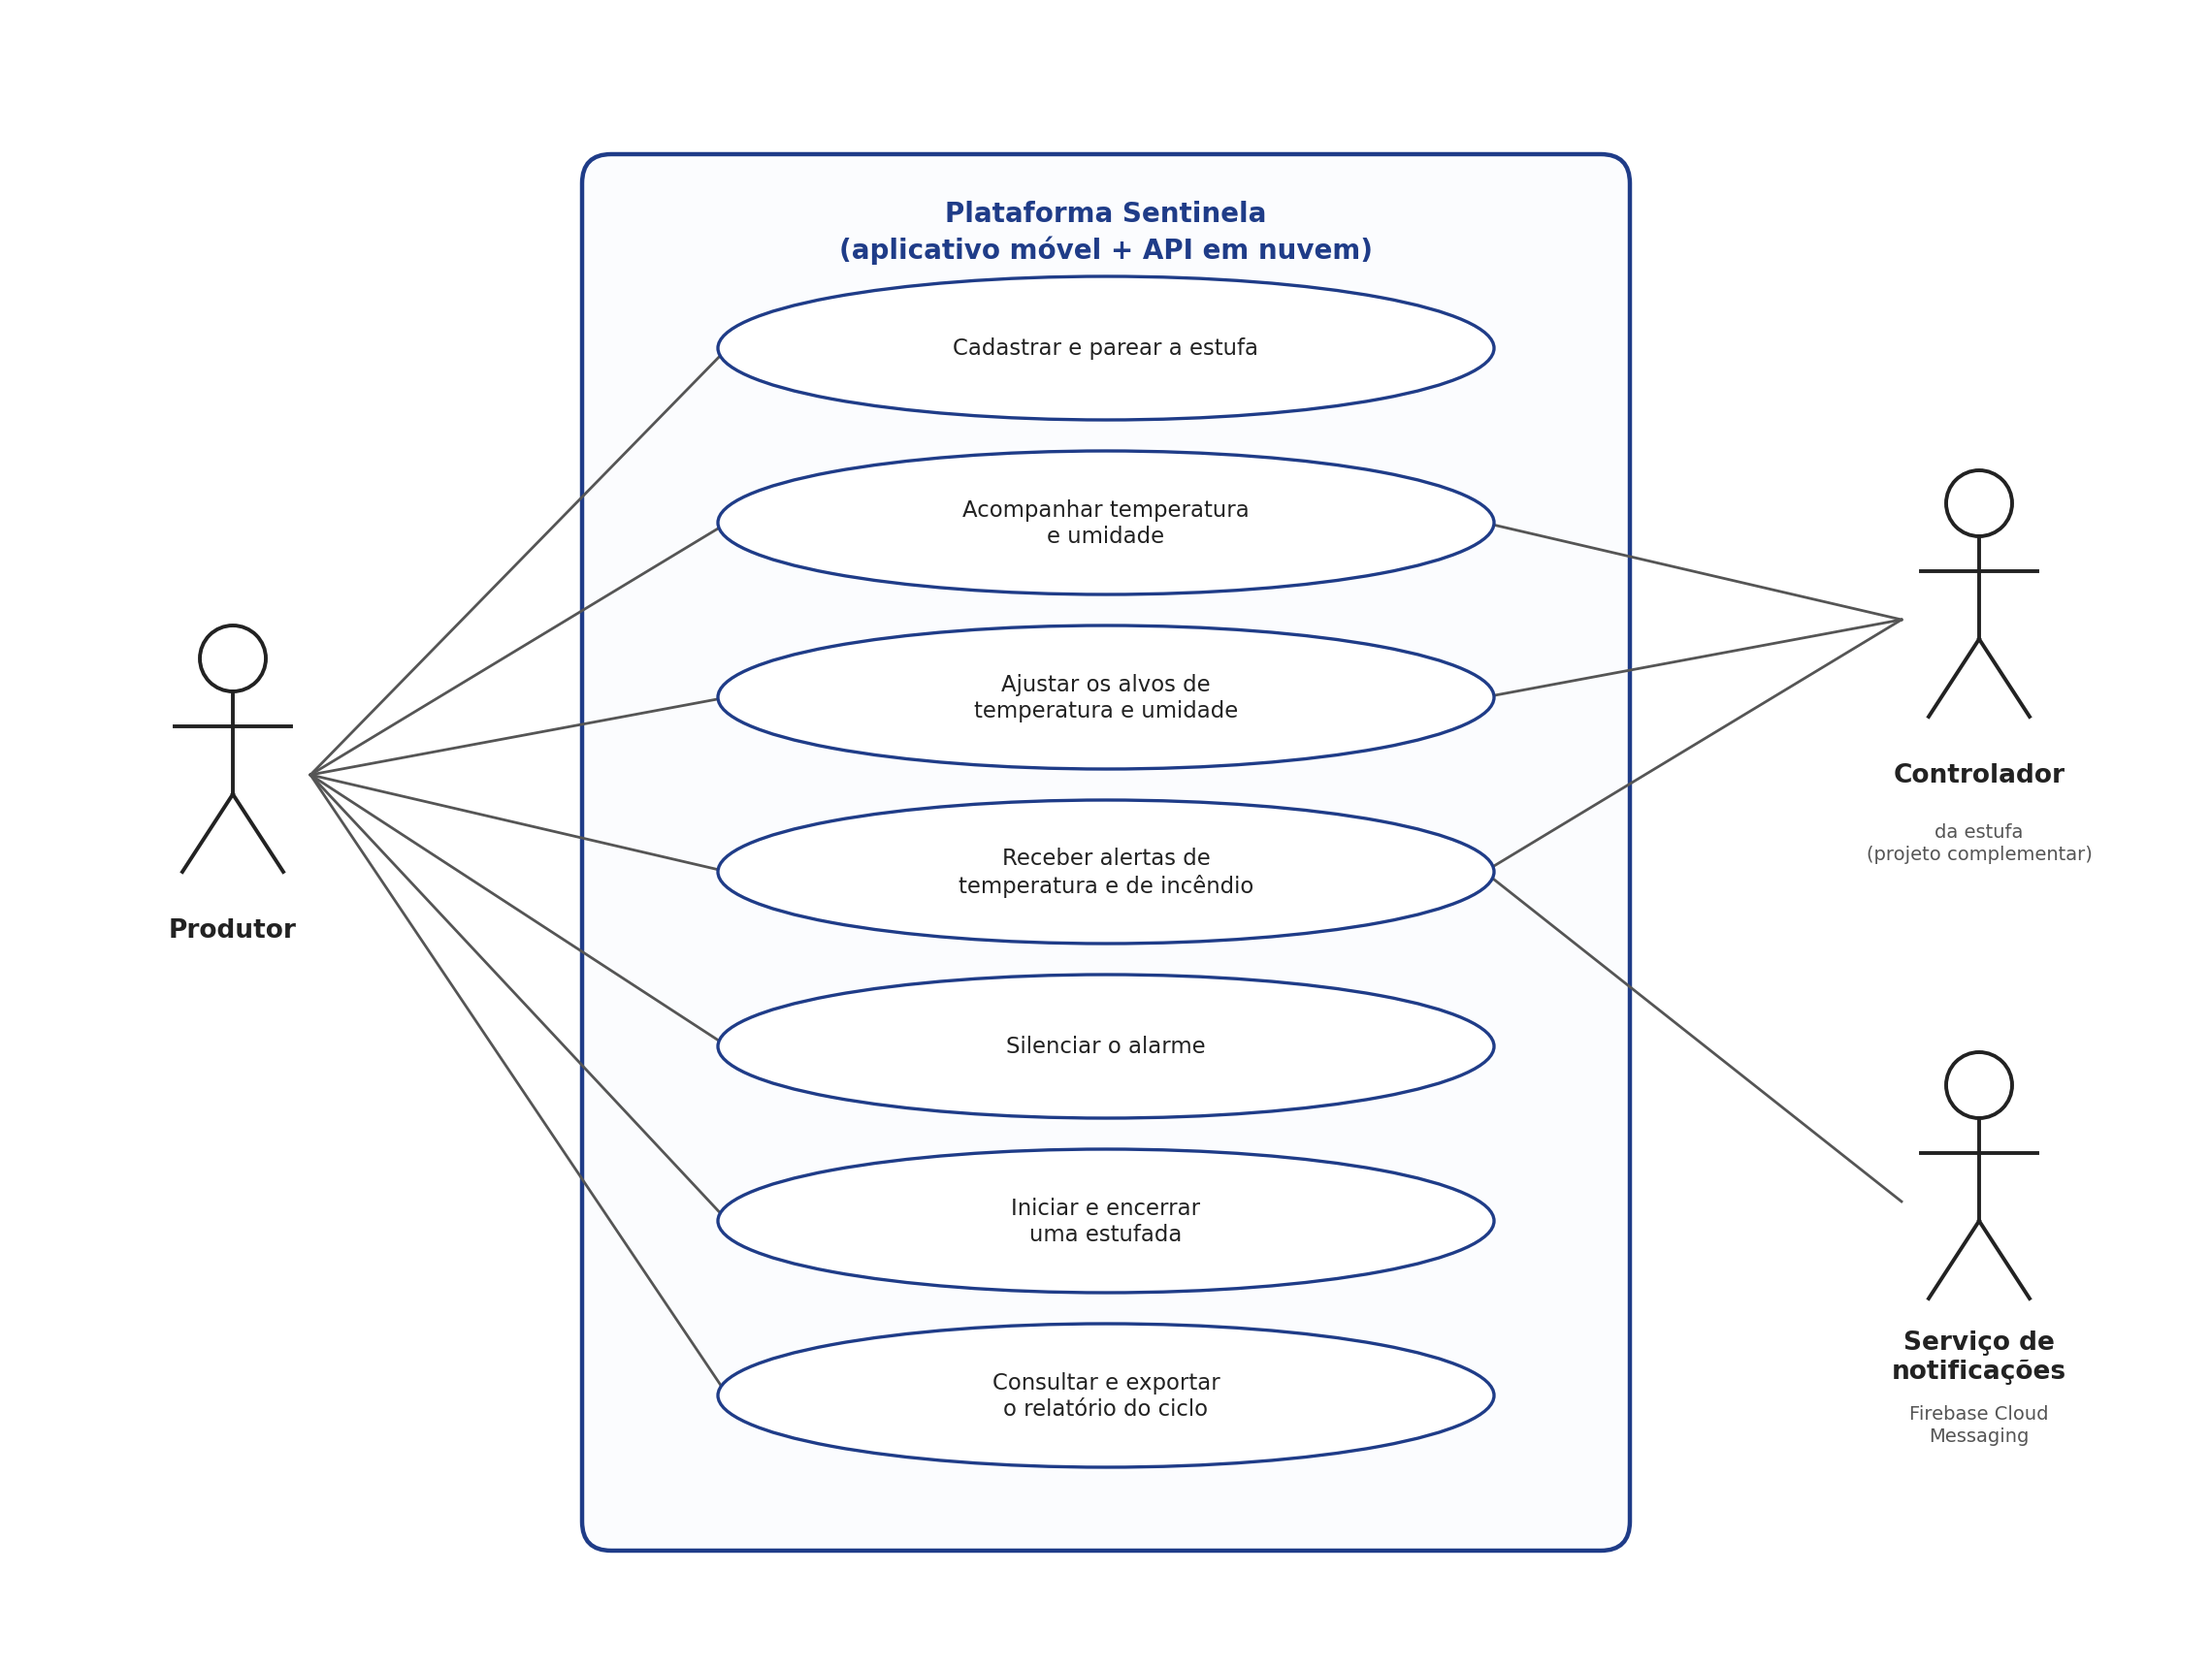
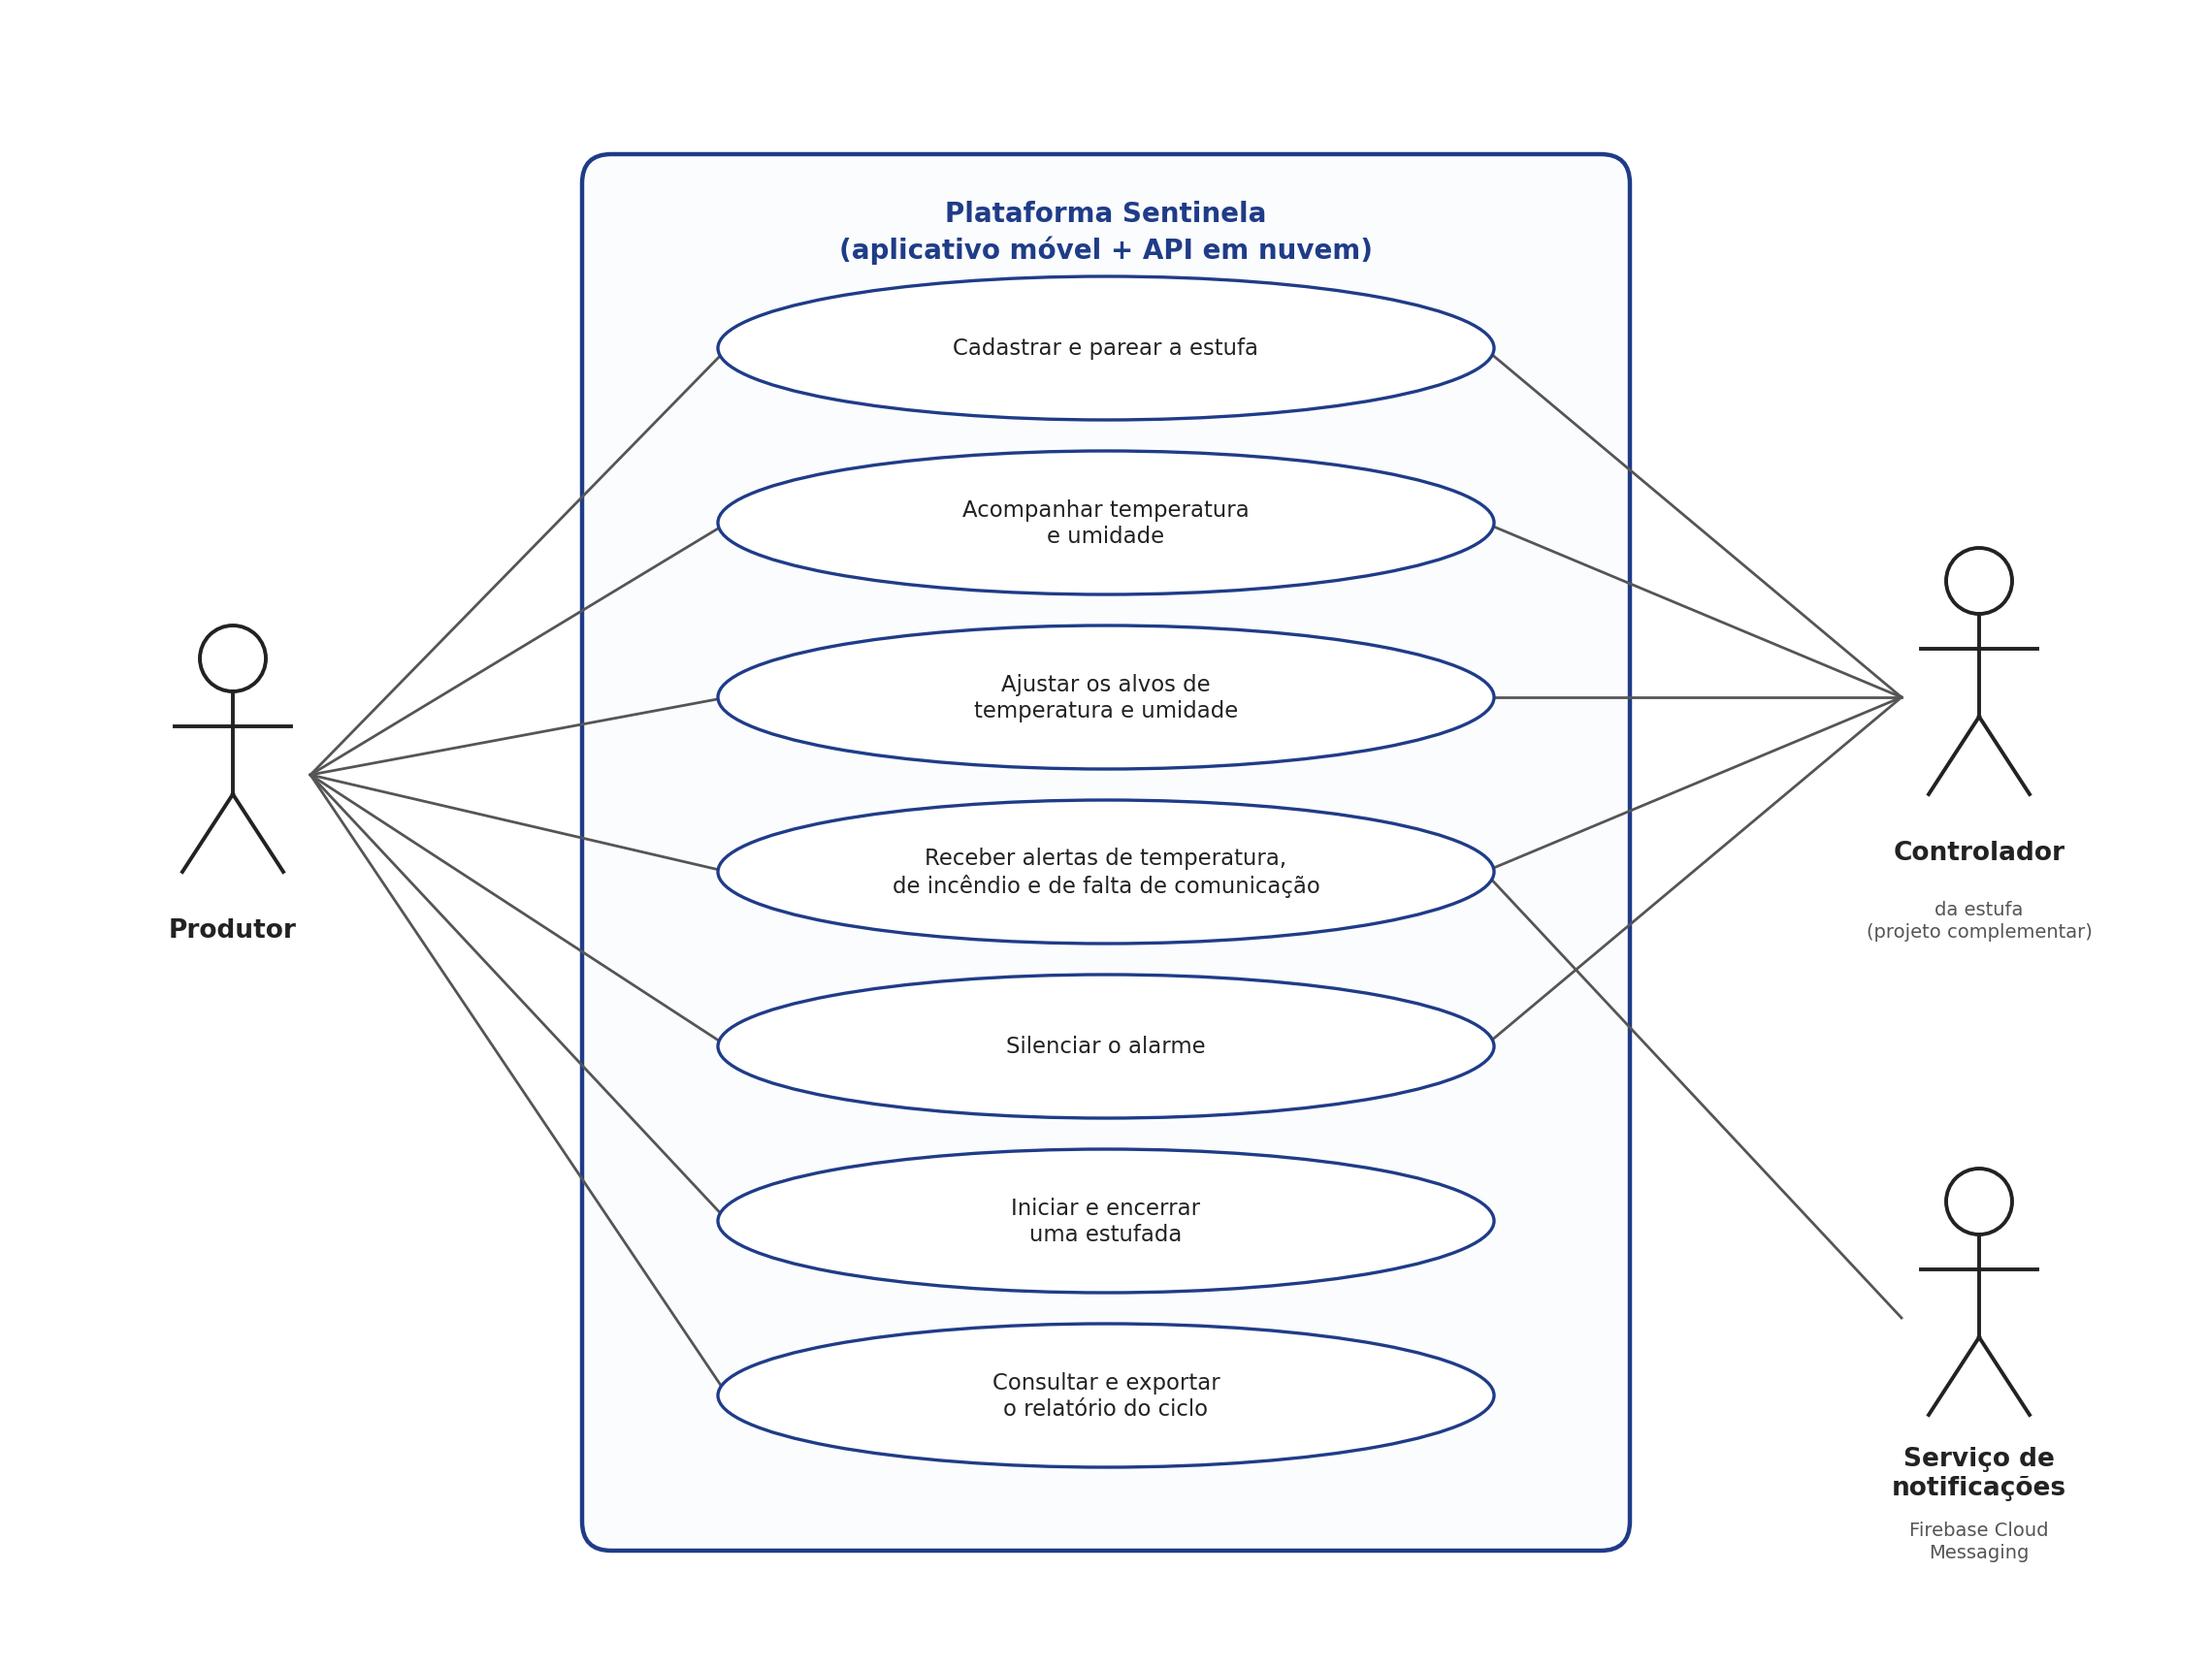
Give the controller the associations it actually has
The producer spotted it: the device was tied to three use cases and takes
part in five. It identifies itself during pairing - the id and the key
are read from it - and it is what silences the physical siren when the
command arrives, so both belong.

The two it is still left out of are left out deliberately. The firmware
has no notion of a curing cycle, and it keeps no history at all, so
starting a run and pulling the report are the app and the cloud talking
to each other.

The alerts case also says what it alerts about now, including the one
that fires when the device goes quiet - which the cloud raises precisely
because the device cannot.

diff --git a/docs/figuras/casos_de_uso.py b/docs/figuras/casos_de_uso.py
@@ -61,7 +61,7 @@ CASOS = [
     (16, 'Cadastrar e parear a estufa'),
     (25, 'Acompanhar temperatura\ne umidade'),
     (34, 'Ajustar os alvos de\ntemperatura e umidade'),
-    (43, 'Receber alertas de\ntemperatura e de incêndio'),
+    (43, 'Receber alertas de temperatura,\nde incêndio e de falta de comunicação'),
     (52, 'Silenciar o alarme'),
     (61, 'Iniciar e encerrar\numa estufada'),
     (70, 'Consultar e exportar\no relatório do ciclo'),
@@ -72,17 +72,20 @@ for y, texto in CASOS:
 
 # ---- atores ----
 ator(10, 38, 'Produtor')
-ator(100, 30, 'Controlador', 'da estufa\n(projeto complementar)')
-ator(100, 60, 'Serviço de\nnotificações', 'Firebase Cloud\nMessaging')
+ator(100, 34, 'Controlador', 'da estufa\n(projeto complementar)')
+ator(100, 66, 'Serviço de\nnotificações', 'Firebase Cloud\nMessaging')
 
 for y, _ in CASOS:
     liga(14, 38, 35.5, y)
 
-# o controlador participa da leitura, do ajuste e dos alertas
-for y in (25, 34, 43):
-    liga(74.5, y, 96, 30)
-# o servico de notificacao entrega os alertas
-liga(74.5, 43, 96, 60)
+# O controlador participa de tudo que depende do aparelho: ele se identifica
+# no pareamento, fornece as leituras, aplica os alvos, decide o alarme e cala
+# a sirene. Nao participa da estufada nem do relatorio - o firmware nao tem
+# conceito de ciclo e nao guarda historico nenhum.
+for y in (16, 25, 34, 43, 52):
+    liga(74.5, y, 96, 34)
+# O servico de notificacao entrega o aviso quando o aplicativo esta fechado.
+liga(74.5, 43, 96, 66)
 
 destino = os.path.join(os.path.dirname(os.path.abspath(__file__)),
                        'casos_de_uso.png')
